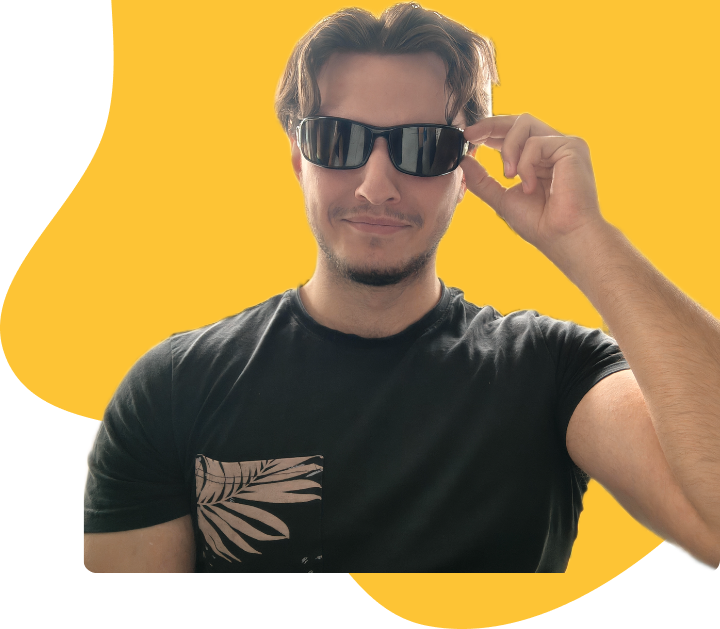
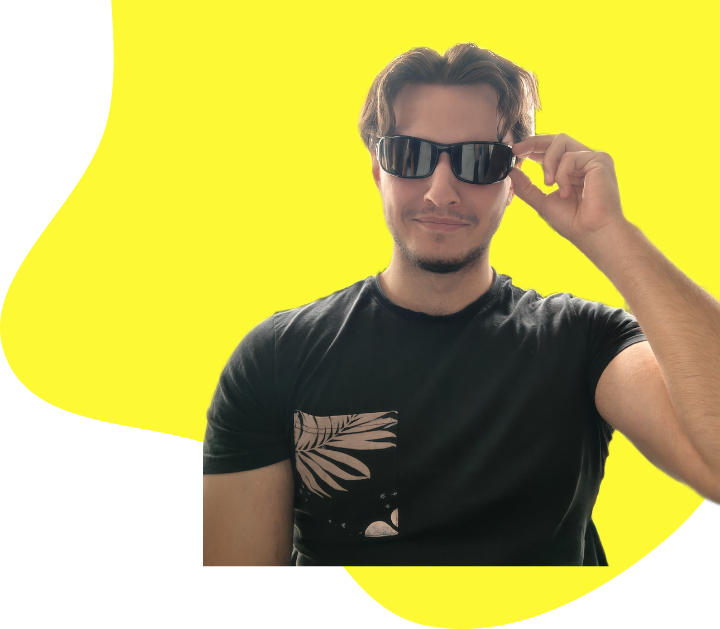
modified images + add Footer + colors modifications

diff --git a/src/Components/Footer.jsx b/src/Components/Footer.jsx
@@ -1,0 +1,54 @@
+import React from 'react';
+
+export default function Footer() {
+    return (
+    <footer className="w-full py-16 flex flex-col items-center justify-center bg-white">
+
+        {/* Conteneur des icônes */}
+        <div className="flex space-x-8 mb-8">
+
+            {/* Icône Instagram */}
+            <a
+                href="https://www.instagram.com"
+                target="_blank"
+                rel="noopener noreferrer"
+                aria-label="Instagram"
+                className="text-[#25282B] hover:text-[#fefa36] transition-colors"
+            >
+                <svg className="w-9 h-9" fill="currentColor" viewBox="0 0 24 24" aria-hidden="true">
+                    <path
+                        fillRule="evenodd"
+                        clipRule="evenodd"
+                        d="M12 2c2.717 0 3.056.01 4.122.06 1.065.05 1.79.217 2.428.465.66.254 1.216.598 1.772 1.153.555.556.9 1.11 1.152 1.772.248.638.416 1.363.465 2.428.048 1.067.06 1.405.06 4.122 0 2.717-.01 3.056-.06 4.122-.05 1.065-.217 1.79-.465 2.428a4.883 4.883 0 0 1-1.152 1.772 4.883 4.883 0 0 1-1.772 1.152c-.638.248-1.363.416-2.428.465-1.067.048-1.405.06-4.122.06-2.717 0-3.056-.01-4.122-.06-1.065-.05-1.79-.217-2.428-.465a4.883 4.883 0 0 1-1.772-1.152 4.883 4.883 0 0 1-1.152-1.772c-.248-.638-.416-1.363-.465-2.428C2.013 15.056 2 14.717 2 12c0-2.717.01-3.056.06-4.122.05-1.065.217-1.79.465-2.428a4.883 4.883 0 0 1 1.152-1.772A4.883 4.883 0 0 1 5.45 2.525c.638-.248 1.363-.416 2.428-.465C8.944 2.013 9.283 2 12 2zM12 7a5 5 0 1 0 0 10 5 5 0 0 0 0-10zm0 2a3 3 0 1 1 0 6 3 3 0 0 1 0-6zm5.25-3.5a1.25 1.25 0 1 0 0 2.5 1.25 1.25 0 0 0 0-2.5z"
+                    />
+                </svg>
+            </a>
+
+            {/* Icône LinkedIn */}
+            <a href="https://www.linkedin.com/in/julien-vouilloz-0428b935b/" target="_blank" rel="noopener noreferrer" aria-label="LinkedIn" className="text-[#25282B] hover:text-[#fefa36] transition-colors">
+                <svg className="w-8 h-8" fill="currentColor" viewBox="0 0 24 24" aria-hidden="true">
+                    <path fillRule="evenodd" d="M19 0h-14c-2.761 0-5 2.239-5 5v14c0 2.761 2.239 5 5 5h14c2.762 0 5-2.239 5-5v-14c0-2.761-2.238-5-5-5zm-11 19h-3v-11h3v11zm-1.5-12.268c-.966 0-1.75-.79-1.75-1.764s.784-1.764 1.75-1.764 1.75.79 1.75 1.764-.783 1.764-1.75 1.764zm13.5 12.268h-3v-5.604c0-3.368-4-3.113-4 0v5.604h-3v-11h3v1.765c1.396-2.586 7-2.777 7 2.476v6.759z" clipRule="evenodd" />
+                </svg>
+            </a>
+
+            {/* Icône Email */}
+            <a
+                href="mailto:[email redacted]"
+                aria-label="Email"
+                className="text-[#25282B] hover:text-[#fefa36] transition-colors"
+            >
+                <svg className="w-9 h-9" fill="currentColor" viewBox="0 0 24 24" aria-hidden="true">
+                    <path d="M20 4H4c-1.1 0-1.99.9-1.99 2L2 18c0 1.1.9 2 2 2h16c1.1 0 2-.9 2-2V6c0-1.1-.9-2-2-2zm0 4l-8 5-8-5V6l8 5 8-5v2z" />
+                </svg>
+            </a>
+
+        </div>
+
+        {/* Copyright */}
+        <p className="text-[#828282] text-sm md:text-base font-sans">
+            Julien VOUILLOZ 2026
+        </p>
+
+    </footer>
+);
+}

diff --git a/src/Components/Projects.jsx b/src/Components/Projects.jsx
@@ -7,24 +7,24 @@ export default function Projects() {
     const projectList = [
         {
             id: 1,
-            title: "Project Name",
-            description: "I created this personal project in order to show how to create an interface in Figma using a portfolio as an example.",
-            img: imgProject1, // Remplacer par imgProject1
-            reverse: false // Image à droite
+            title: "Pokédex",
+            description: "I created this simple project by using a pokemon API, I used React for the frontend and Node.js for the backend. I was responsible for the entire development process, from designing the user interface to implementing the API integration and ensuring a smooth user experience.",
+            img: imgProject1,
+            reverse: false
         },
         {
             id: 2,
-            title: "Project Name",
-            description: "What was your role, your deliverables, if the project was personal, freelancing.",
-            img: imgProject2, // Remplacer par imgProject2
-            reverse: true // Image à gauche
+            title: "Trading Bot",
+            description: "This project is a trading bot that I developed using Python. The bot is designed to analyze market data and execute trades based on predefined strategies. I implemented various algorithms for technical analysis and risk management, allowing the bot to make informed trading decisions in real-time.",
+            img: imgProject2,
+            reverse: true
         },
         {
             id: 3,
-            title: "Project Name",
-            description: "You can also add in this description the type of the project, if it was for web, mobile, electron.",
-            img: imgProject3, // Remplacer par imgProject3
-            reverse: false // Image à droite
+            title: "Maison SALIN",
+            description: "For this project, I developed a website for a wine trading company called Maison SALIN. The website was built using basic front end (HTML, CSS, JavaScript) and linked it with the back end with FastAPI. I was responsible for designing the user interface, implementing the property listing features, and integrating a contact form for potential clients to reach out to the agency.",
+            img: imgProject3,
+            reverse: false
         }
     ];
 
@@ -32,26 +32,21 @@ export default function Projects() {
         <section id="projects" className="w-full py-20 bg-white">
             <div className="max-w-6xl mx-auto px-6 md:px-12">
 
-                {/* En-tête de la section */}
                 <div className="flex flex-col items-center mb-16 relative">
                     <h2 className="text-4xl md:text-5xl font-serif font-bold text-dark mb-3">
                         Projects
                     </h2>
-                    {/* Le petit trait jaune sous le titre */}
                     <div className="w-20 h-1 bg-primary rounded-full"></div>
                 </div>
 
-                {/* Conteneur de la liste des projets */}
                 <div className="flex flex-col space-y-16">
 
-                    {/* Boucle sur le tableau pour générer les cartes */}
                     {projectList.map((project) => (
                         <div
                             key={project.id}
                             className={`flex flex-col ${project.reverse ? 'md:flex-row-reverse' : 'md:flex-row'} bg-white rounded-card shadow-card overflow-hidden`}
                         >
 
-                            {/* Moitié Texte */}
                             <div className="w-full md:w-1/2 p-8 md:p-14 lg:p-20 flex flex-col justify-center items-start">
                                 <h3 className="text-3xl font-serif font-bold text-dark mb-4">
                                     {project.title}
@@ -64,7 +59,6 @@ export default function Projects() {
                                 </button>
                             </div>
 
-                            {/* Moitié Image */}
                             <div className="w-full md:w-1/2 h-64 md:h-auto min-h-[300px] md:min-h-[450px]">
                                 <img
                                     src={project.img}

diff --git a/src/Components/Hero.jsx b/src/Components/Hero.jsx
@@ -5,9 +5,6 @@ export default function Hero() {
     return (
         <section id="hero" className="relative w-full min-h-screen flex items-center overflow-x-hidden bg-white">
 
-            {/* L'image combinée est sortie du flux (absolute) et fixée en haut à droite.
-              object-right-top garantit que l'image colle toujours au plafond et au bord droit de l'écran.
-            */}
             <div className="absolute top-0 right-0 w-full md:w-1/2 lg:w-[55%] h-full flex justify-end items-start z-0 pointer-events-none">
                 <img
                     src={ImageSite}
@@ -16,14 +13,10 @@ export default function Hero() {
                 />
             </div>
 
-            {/* Le conteneur du texte reste centré dans sa zone invisible (max-w-7xl).
-              On donne à ce bloc une largeur de la moitié de l'écran (md:w-1/2)
-              pour qu'il ne passe pas derrière ou par-dessus l'image.
-            */}
             <div className="max-w-7xl mx-auto w-full px-8 md:px-16 z-10 mt-24 md:mt-0 relative">
                 <div className="flex flex-col space-y-5 font-sans w-full md:w-1/2 md:pr-10">
-                    <h2 className="text-[#FDC435] font-title font-bold uppercase tracking-widest text-sm md:text-base">
-                        Chef de projet
+                    <h2 className="text-[#fefa36] font-title font-bold uppercase tracking-widest text-sm md:text-base">
+                        Chef de projet data et IA
                     </h2>
 
                     <h1 className="text-5xl md:text-7xl font-title font-black text-[#25282B] leading-tight">
@@ -36,13 +29,21 @@ export default function Hero() {
                     </p>
 
                     <div className="flex flex-wrap gap-4 pt-4">
-                        <button className="bg-[#FDC435] text-[#25282B] font-bold px-8 py-2 rounded-lg shadow-[0_4px_10px_rgba(253,196,53,0.4)] hover:bg-yellow-500 transition-colors">
+                        <a
+                            href="#projects"
+                            className="bg-[#fefa36] text-[#25282B] font-bold px-8 py-2 rounded-lg shadow-[0_4px_10px_rgba(253,196,53,0.4)] hover:bg-yellow-300 transition-colors text-center"
+                        >
                             Projects
-                        </button>
+                        </a>
 
-                        <button className="border-2 border-[#25282B] text-[#25282B] bg-transparent font-bold px-8 py-2 rounded-lg hover:bg-[#25282B] hover:text-white transition-colors">
+                        <a
+                            href="https://www.linkedin.com"
+                            target="_blank"
+                            rel="noopener noreferrer"
+                            className="border-2 border-[#25282B] text-[#25282B] bg-transparent font-bold px-8 py-2 rounded-lg hover:bg-[#25282B] hover:text-white transition-colors"
+                        >
                             LinkedIn
-                        </button>
+                        </a>
                     </div>
                 </div>
             </div>

diff --git a/src/App.jsx b/src/App.jsx
@@ -1,6 +1,7 @@
 import Header from './Components/Header';
 import Hero from './Components/Hero';
 import Projects from './Components/Projects';
+import Footer from './Components/Footer';
 
 function App() {
   return (
@@ -11,6 +12,7 @@ function App() {
             <Hero />
             <Projects />
         </main>
+          <Footer />
 
       </div>
   );

diff --git a/src/Components/Header.jsx b/src/Components/Header.jsx
@@ -11,7 +11,7 @@ export default function Header() {
                         <a href="#projects" className="hover:text-brand-yellow transition-colors">Projects</a>
                     </li>
                     <li>
-                        <a href="#contacts" className="hover:text-brand-yellow transition-colors">Contacts</a>
+                        <a href="mailto:[email redacted]" className="hover:text-brand-yellow transition-colors">Contacts</a>
                     </li>
                 </ul>
             </nav>

diff --git a/tailwind.config.js b/tailwind.config.js
@@ -7,7 +7,7 @@ export default {
     theme: {
         extend: {
             colors: {
-                primary: '#FDC435',
+                primary: '#fefa36',
                 dark: '#25282B',
                 muted: '#828282',
                 surface: '#F9FAFF',